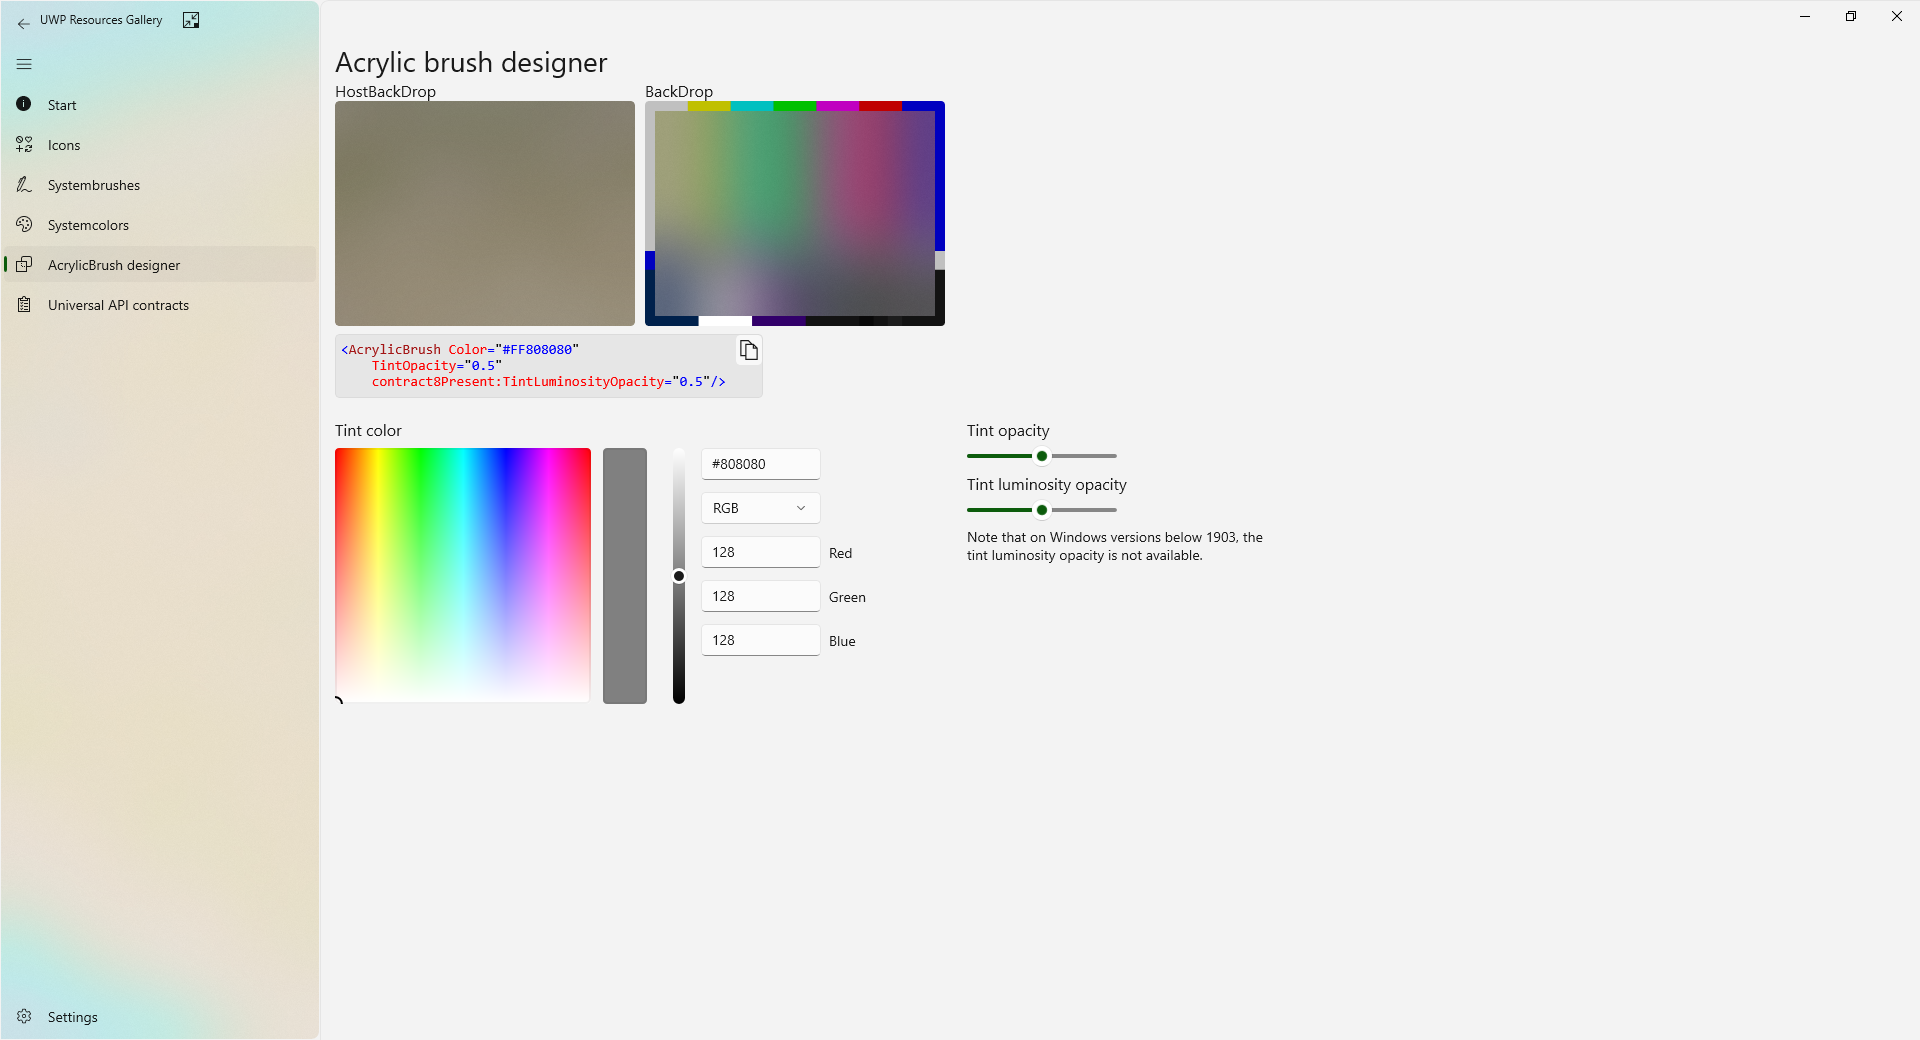
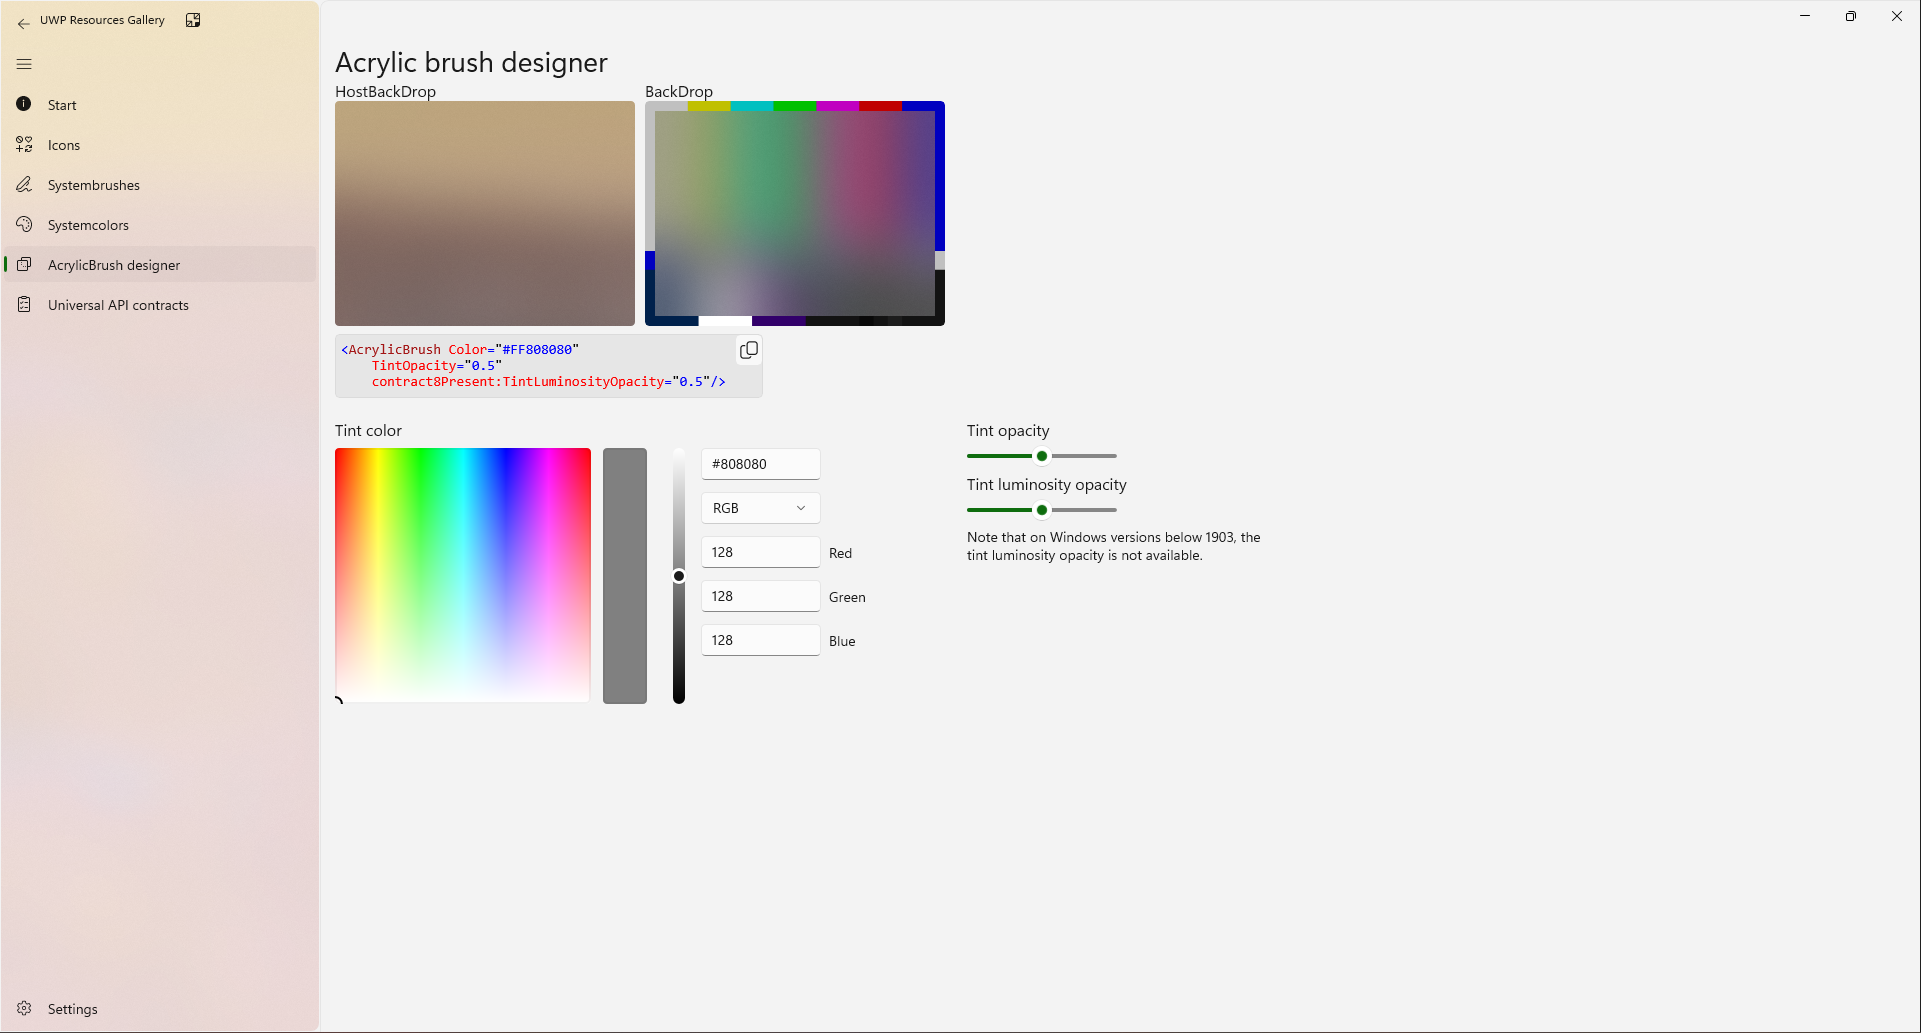
Update gallery to Windows 11 and latest WinUI 2 comptability (#172)
* Initial win 11 update

* Update WinUI Gallery references

* Update screenshots

* Minor fixes

* Fix startpage

* Fix colors and screenshots

* Bump version

diff --git a/src/UWPResourcesGallery/Pages/StartPage.xaml b/src/UWPResourcesGallery/Pages/StartPage.xaml
@@ -49,9 +49,9 @@
                     <ColumnDefinition x:Name="AdditionalContentColumn" Width="0"/>
                 </Grid.ColumnDefinitions>
                 
-                <common:PageHeader Margin="5,5,5,5"
-                    PageName="Welcome to the UWP Resources Gallery" 
-                    PageDescription="This app contains a list of UWP resources, such as system colors and the Segoe MDL2 icons."/>
+                <common:PageHeader Margin="5,5,5,5" MaxWidth="760"
+                    PageName="Welcome to the UWP Resources Gallery"
+                    PageDescription="This app contains a list of UWP resources, such as system colors and the Segoe MDL2 icons. For resources relating to WinUI 3, please refer to the WinUI 3 Gallery."/>
 
                 <!-- Navigation -->
                 <VariableSizedWrapGrid MaximumRowsOrColumns="2" Orientation="Horizontal" 
@@ -181,8 +181,13 @@
                     </StackPanel>
                     <StackPanel Background="{ThemeResource ButtonBackground}" CornerRadius="{ThemeResource ControlCornerRadius}"
                             Padding="10,0,10,10" Width="250" Margin="0,10,0,10">
-                        <HyperlinkButton Content="XAML Controls Gallery" NavigateUri="https://www.microsoft.com/store/productId/9MSVH128X2ZT"/>
-                        <TextBlock Text="Shows all of the XAML controls in an interactive format" TextWrapping="WrapWholeWords"/>
+                        <HyperlinkButton Content="WinUI 2 Gallery" NavigateUri="https://apps.microsoft.com/store/detail/winui-2-gallery/9MSVH128X2ZT"/>
+                        <TextBlock Text="Shows all of the UWP and WinUI 2 controls in an interactive format" TextWrapping="WrapWholeWords"/>
+                    </StackPanel>
+                    <StackPanel Background="{ThemeResource ButtonBackground}" CornerRadius="{ThemeResource ControlCornerRadius}"
+                            Padding="10,0,10,10" Width="250" Margin="0,10,0,10">
+                        <HyperlinkButton Content="WinUI 3 Gallery" NavigateUri="https://apps.microsoft.com/store/detail/winui-3-gallery/9P3JFPWWDZRC"/>
+                        <TextBlock Text="Shows all of the WinUI 3 controls in an interactive format" TextWrapping="WrapWholeWords"/>
                     </StackPanel>
                     <StackPanel Background="{ThemeResource ButtonBackground}" CornerRadius="{ThemeResource ControlCornerRadius}"
                             Padding="10,0,10,10" Width="250">

diff --git a/src/UWPResourcesGallery/Pages/IconsListPage.xaml b/src/UWPResourcesGallery/Pages/IconsListPage.xaml
@@ -23,6 +23,7 @@
                                 <Style x:Name="StandardGridViewItemStyle" TargetType="GridViewItem">
                                     <Setter Property="Margin" Value="6"/>
                                     <Setter Property="MinHeight" Value="80" />
+                                    <Setter Property="Background" Value="{ThemeResource SystemControlBackgroundListLowBrush}"/>
                                 </Style>
                             </Setter.Value>
                         </Setter>
@@ -93,6 +94,7 @@
                     <Setter Property="Margin" Value="2"/>
                     <Setter Property="MinHeight" Value="80" />
                     <Setter Property="MaxWidth" Value="240" />
+                    <Setter Property="Background" Value="{ThemeResource SystemControlPageBackgroundChromeMediumLowBrush}"/>
                 </Style>
             </GridView.ItemContainerStyle>
 

diff --git a/src/UWPResourcesGallery/Pages/UniversalContractsPage.xaml b/src/UWPResourcesGallery/Pages/UniversalContractsPage.xaml
@@ -27,6 +27,7 @@
                             <Setter.Value>
                                 <Style TargetType="GridViewItem">
                                     <Setter Property="Margin" Value="5"/>
+                                    <Setter Property="Background" Value="{ThemeResource SystemControlPageBackgroundChromeMediumLowBrush}"/>
                                 </Style>
                             </Setter.Value>
                         </Setter>
@@ -85,6 +86,7 @@
                 <GridView.ItemContainerStyle>
                     <Style TargetType="GridViewItem">
                         <Setter Property="Margin" Value="5,0"/>
+                        <Setter Property="Background" Value="{ThemeResource SystemControlPageBackgroundChromeMediumLowBrush}"/>
                     </Style>
                 </GridView.ItemContainerStyle>
                 <GridView.ItemTemplate>

diff --git a/src/UWPResourcesGallery/Pages/IconDetailPage.xaml b/src/UWPResourcesGallery/Pages/IconDetailPage.xaml
@@ -142,7 +142,7 @@
                     <StackPanel x:Name="CustomFontIconPanelContent" Orientation="Vertical"
                         HorizontalAlignment="Left" MaxWidth="320">
                         <!--Left pane-->
-                        <StackPanel Grid.Column="0" Grid.Row="1" HorizontalAlignment="Left" MaxWidth="350">
+                        <StackPanel Grid.Column="0" Grid.Row="1" HorizontalAlignment="Left" MaxWidth="350" Padding="0,4">
                             <common:DualThemePresenter Grid.ColumnSpan="2" Grid.Row="1" 
                                 VerticalAlignment="Top" HorizontalAlignment="Left" ContentOrientation="Horizontal"
                                 Height="150"  Width="320">

diff --git a/src/UWPResourcesGallery/Pages/SystemBrushesPage.xaml b/src/UWPResourcesGallery/Pages/SystemBrushesPage.xaml
@@ -65,6 +65,7 @@
                 <Style TargetType="GridViewItem">
                     <Setter Property="Margin" Value="6" />
                     <Setter Property="MinHeight" Value="80" />
+                    <Setter Property="Background" Value="{ThemeResource SystemControlBackgroundListLowBrush}"/>
                 </Style>
             </GridView.Resources>
             <GridView.ItemTemplate>

diff --git a/src/UWPResourcesGallery/Pages/SystemColorsPage.xaml b/src/UWPResourcesGallery/Pages/SystemColorsPage.xaml
@@ -59,6 +59,7 @@
                 <Style TargetType="GridViewItem">
                     <Setter Property="Margin" Value="6"/>
                     <Setter Property="MinHeight" Value="80" />
+                    <Setter Property="Background" Value="{ThemeResource SystemControlBackgroundListLowBrush}"/>
                 </Style>
             </GridView.Resources>
             <GridView.ItemTemplate>

diff --git a/src/UWPResourcesGallery/Controls/Templates/SystemBrushInformation.xaml b/src/UWPResourcesGallery/Controls/Templates/SystemBrushInformation.xaml
@@ -8,6 +8,7 @@
     d:DesignHeight="300"
     d:DesignWidth="400"
     mc:Ignorable="d"
+    Background="Transparent"
     xmlns:contract7Present="http://schemas.microsoft.com/winfx/2006/xaml/presentation?IsApiContractPresent(Windows.Foundation.UniversalApiContract, 7)">
 
     <StackPanel>

diff --git a/src/UWPResourcesGallery/Controls/Templates/SystemColorInformation.xaml b/src/UWPResourcesGallery/Controls/Templates/SystemColorInformation.xaml
@@ -8,6 +8,7 @@
     mc:Ignorable="d"
     d:DesignHeight="300"
     d:DesignWidth="400"
+    Background="Transparent"
     xmlns:contract7Present="http://schemas.microsoft.com/winfx/2006/xaml/presentation?IsApiContractPresent(Windows.Foundation.UniversalApiContract, 7)">
 
     <StackPanel>

diff --git a/src/UWPResourcesGallery/Controls/Templates/IconItemControl.xaml b/src/UWPResourcesGallery/Controls/Templates/IconItemControl.xaml
@@ -6,6 +6,7 @@
     xmlns:mc="http://schemas.openxmlformats.org/markup-compatibility/2006"
     mc:Ignorable="d"
     d:DesignHeight="50"
+    Background="{ThemeResource SystemControlPageBackgroundChromeMediumLowBrush}"
     HorizontalAlignment="Stretch"
     d:DesignWidth="200">
 
